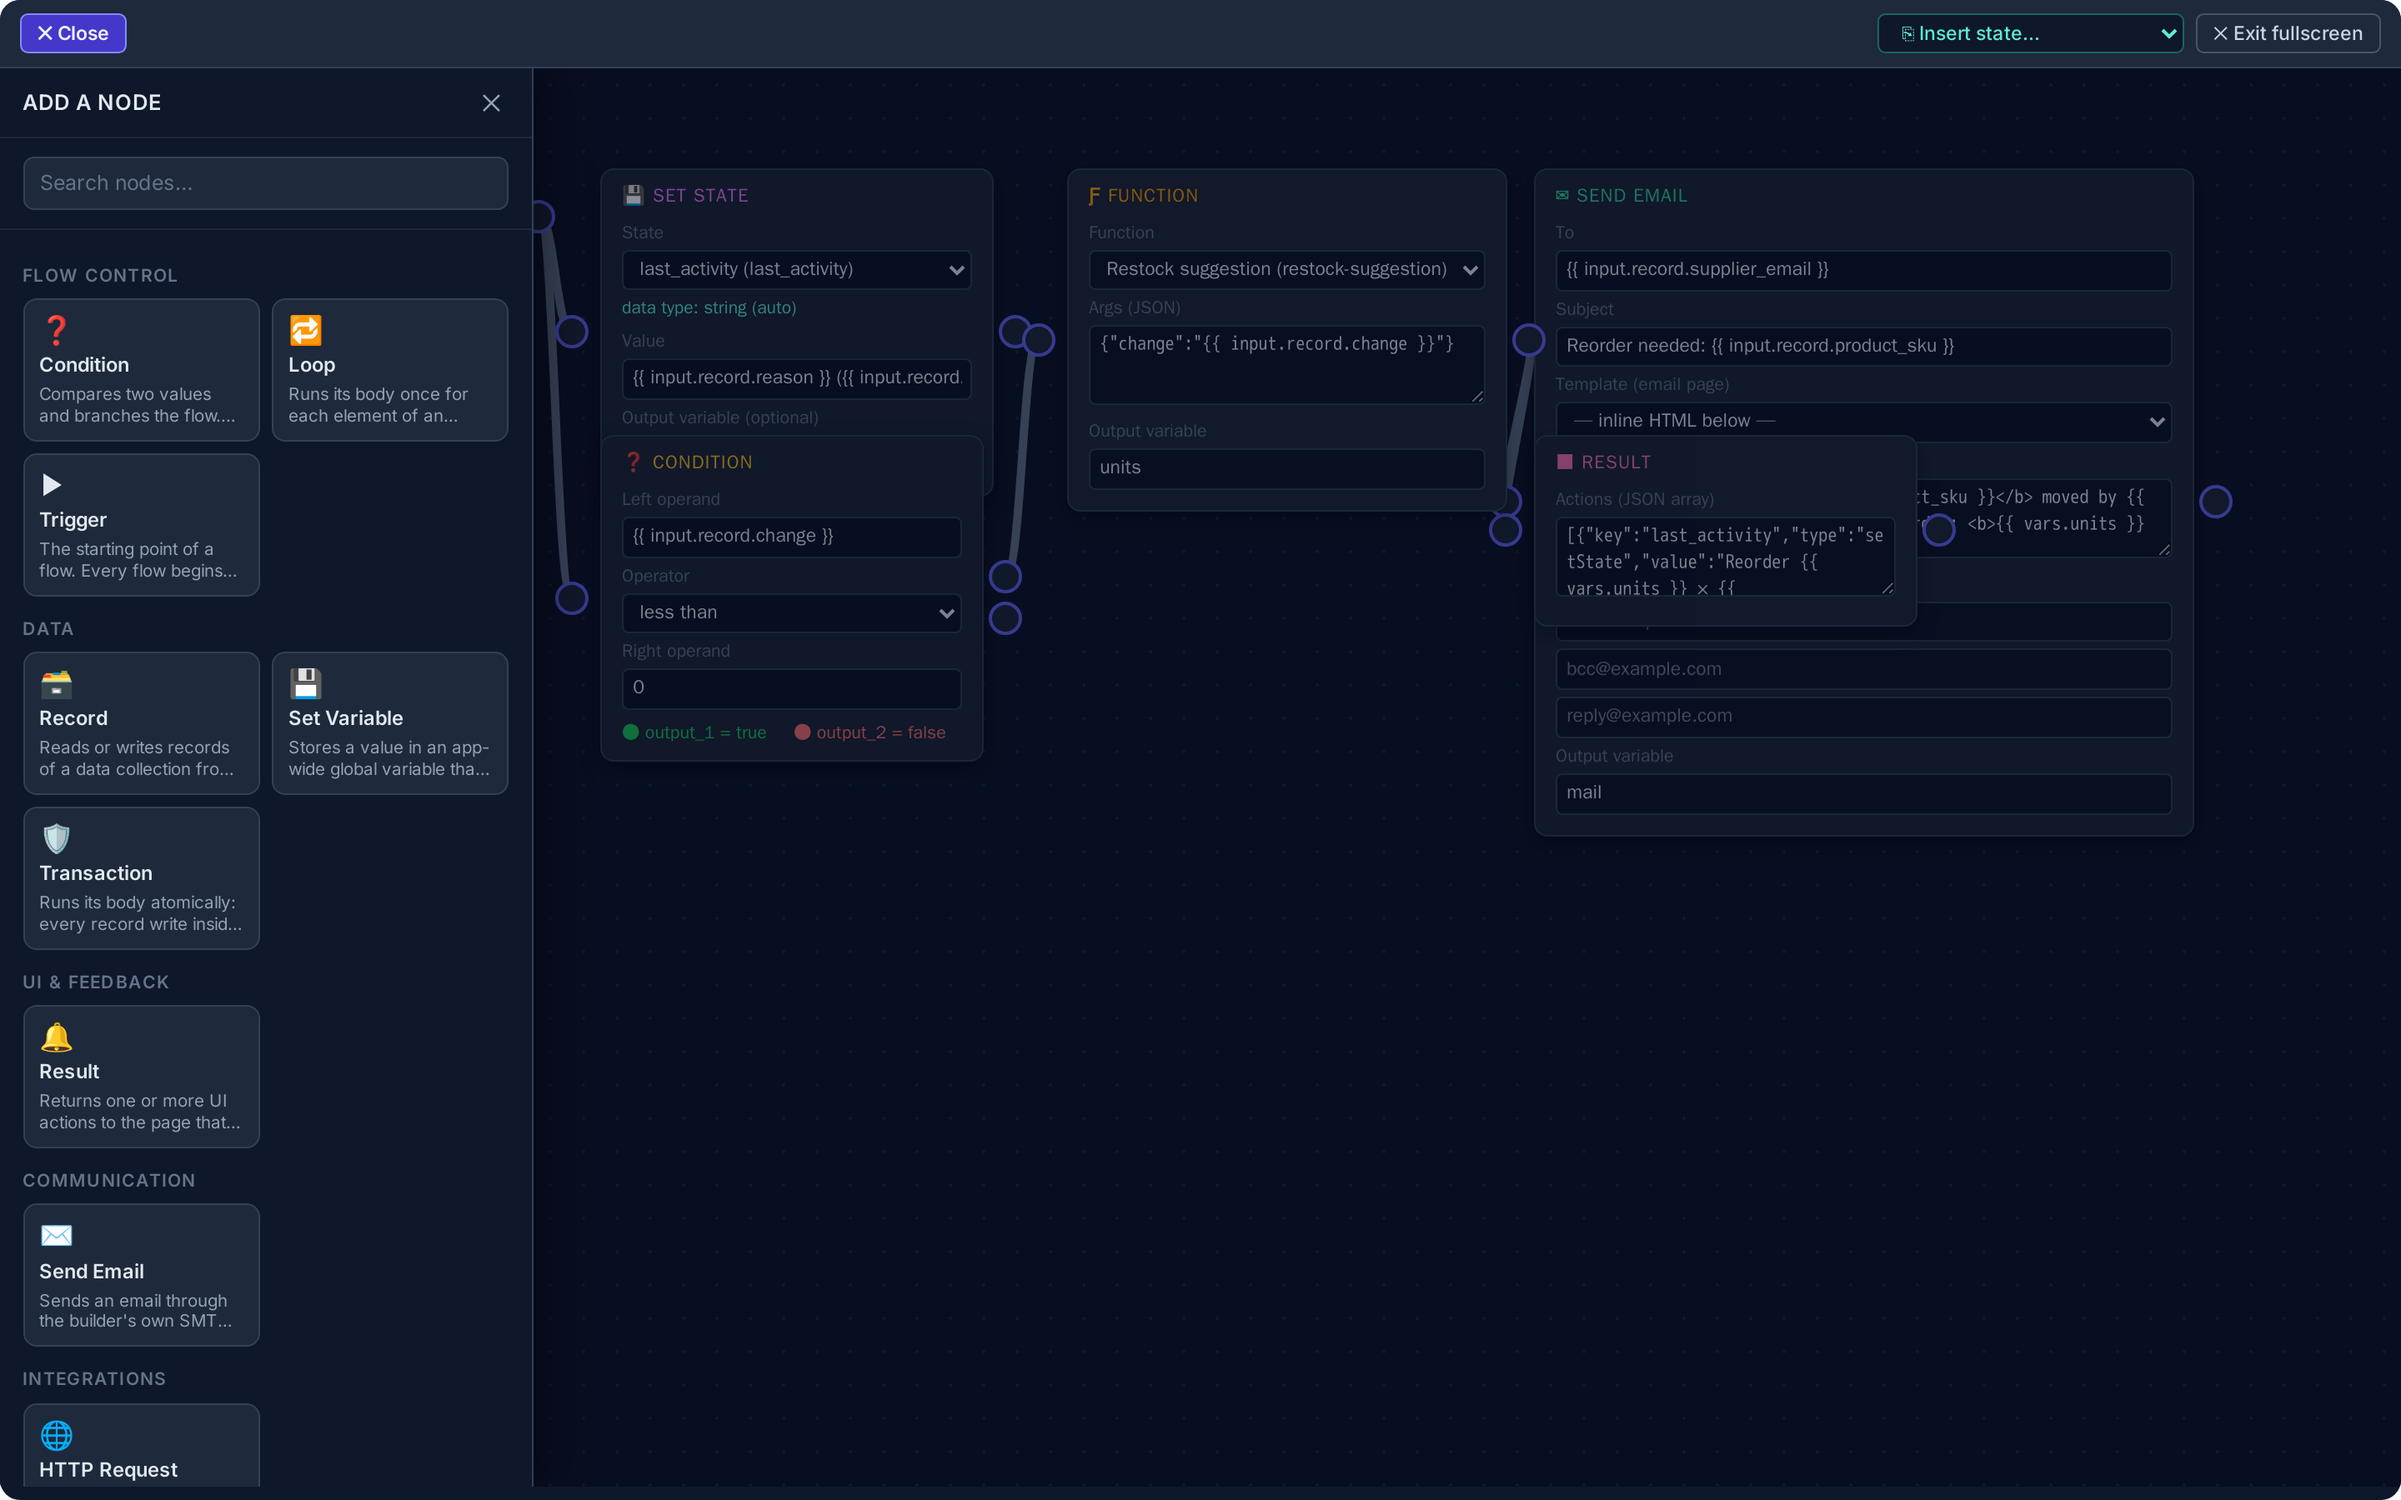
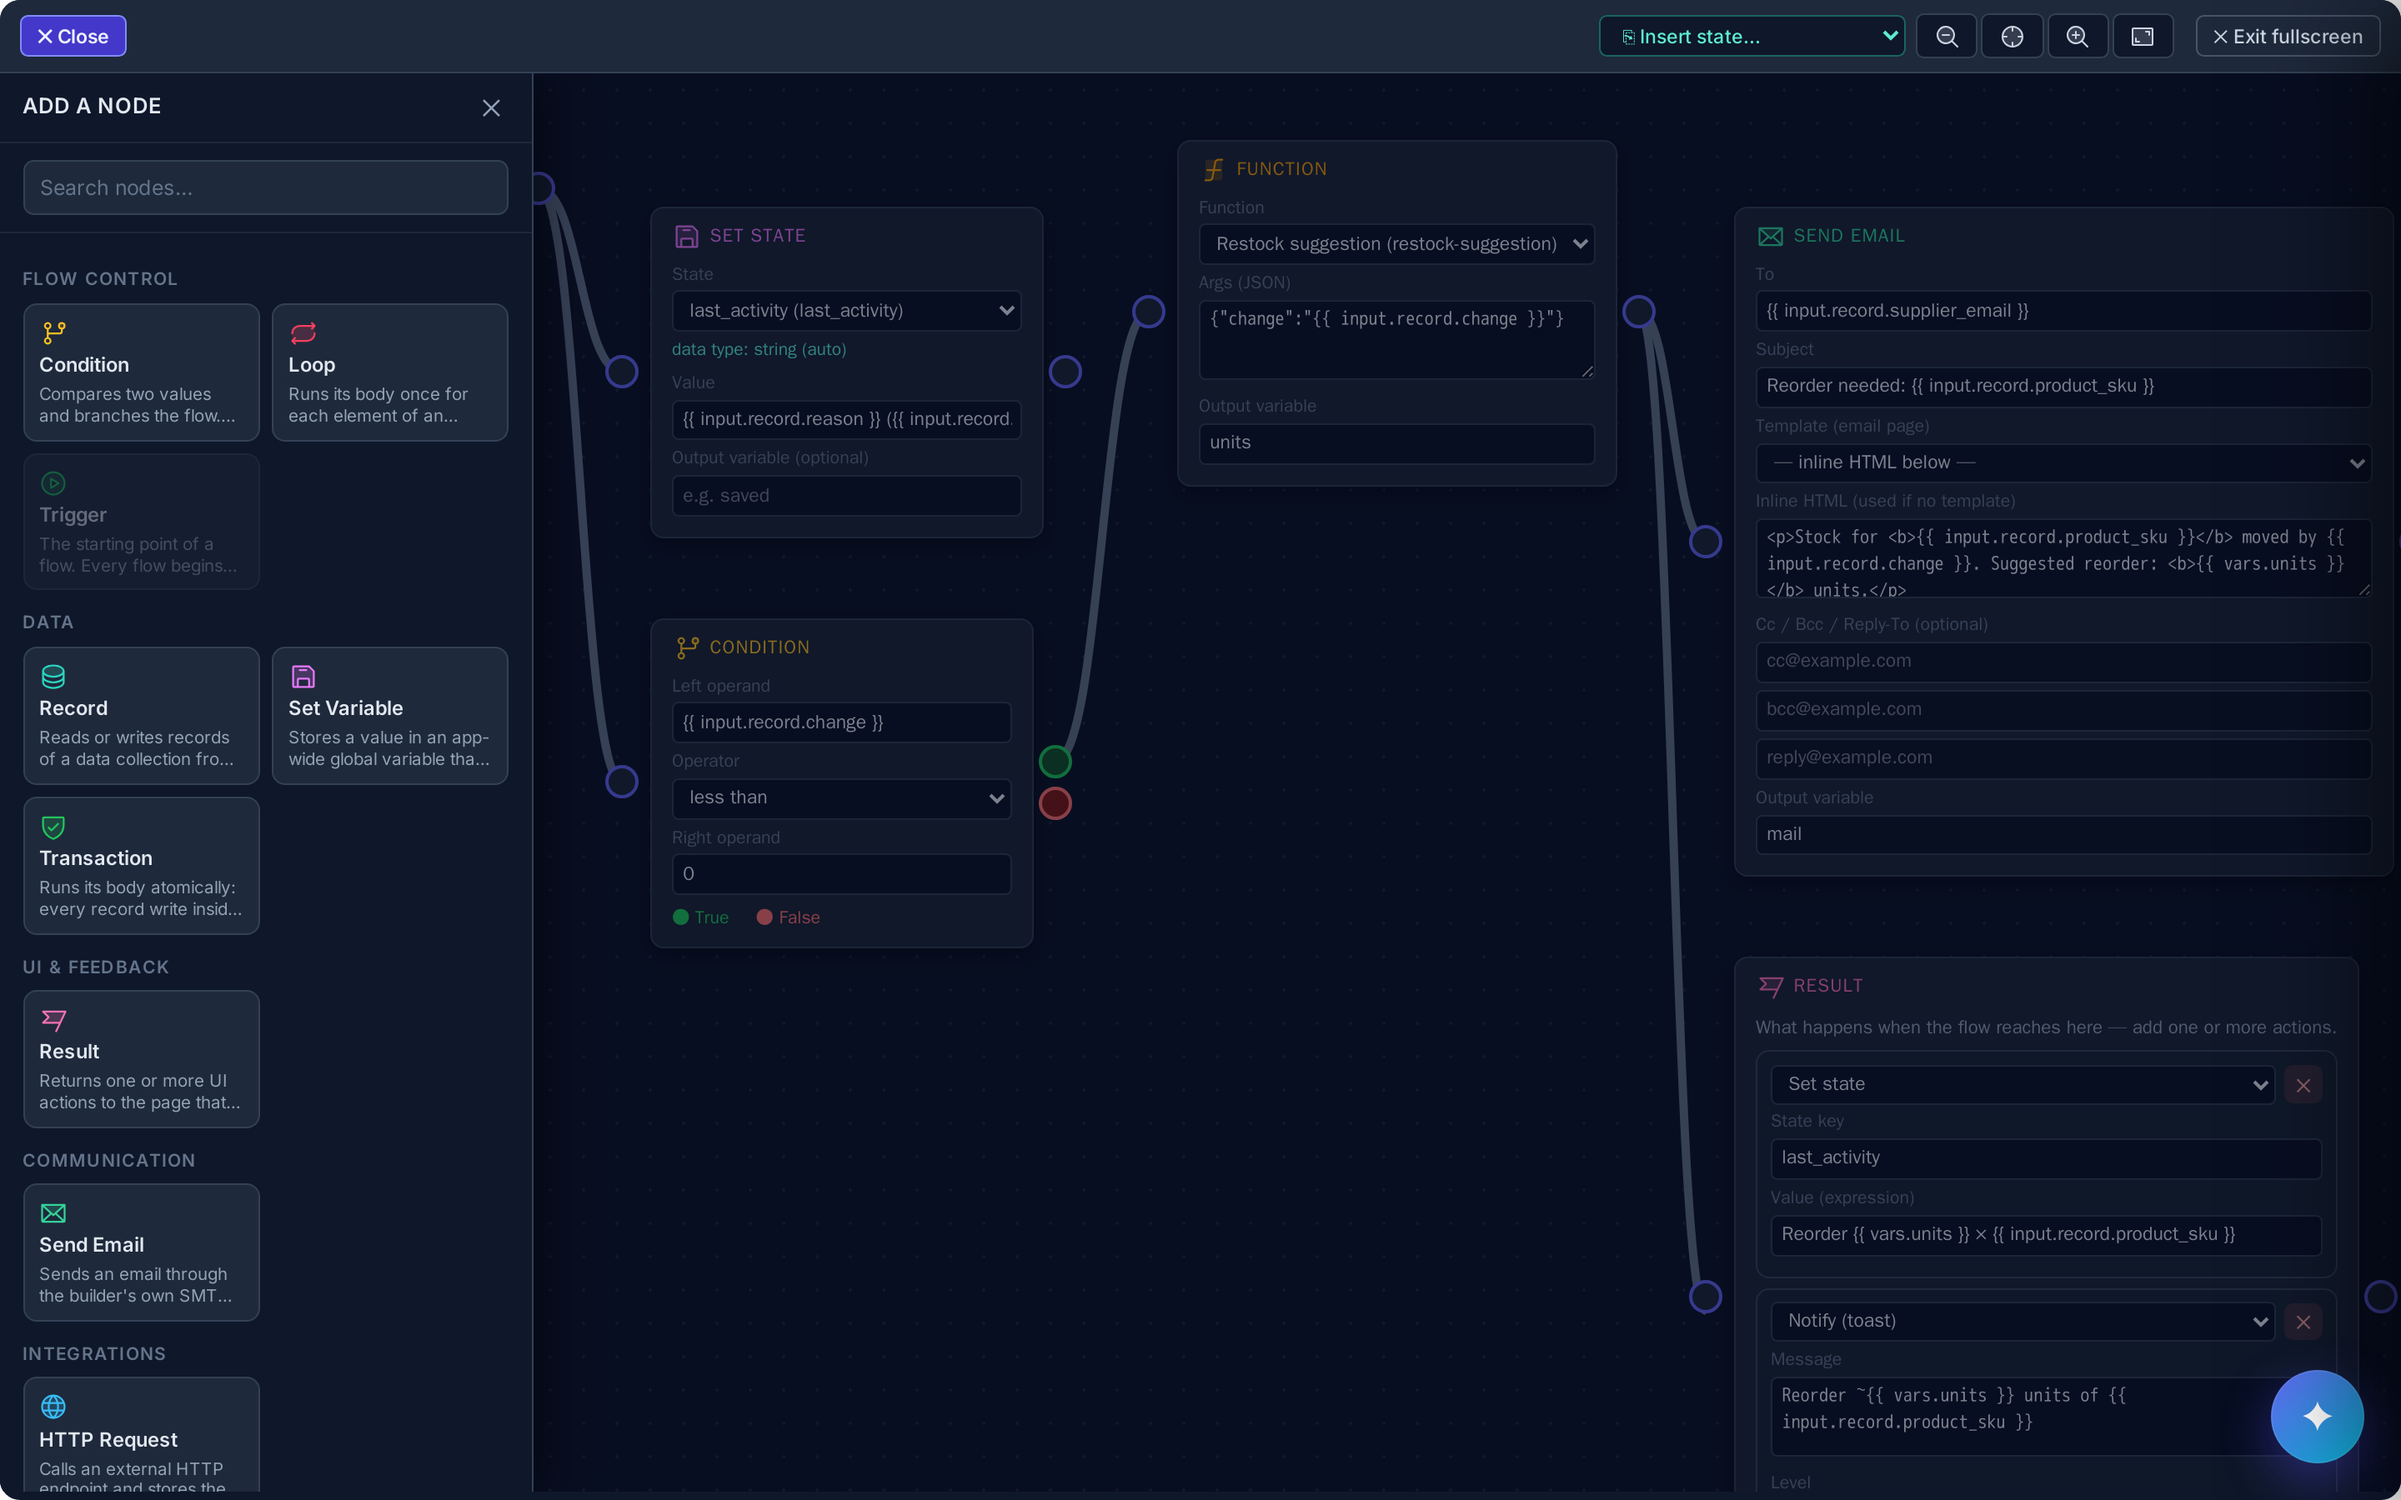
docs: refresh screenshots + document the interactive-page (custom_js) pattern
- Renew all README screenshots from the live demo apps (marketing site, the now-
  functional Inventory app with data/KPIs/CRUD, the visual builder + colour-coded
  block palette, the flow canvas with colour-coded nodes + true/false ports, a real
  AI Build Plan, and the end-user login). Expand the "See it" grid to 6 shots.
- README: note colour-coded flow nodes + green/red branch ports.
- docs/pages-and-components: correct the custom_js load order (now BEFORE the
  deferred Alpine) and add a "sanitizer-safe pattern" section — define component
  factories in custom_js, use init() not x-init, and data-act delegation not
  @click. Make the sanitizer note accurate (page html is ALWAYS sanitized).
- CHANGELOG: colour-coded nodes/blocks, true/false ports, and the custom_js-before-
  Alpine fix + inventory demo rework.

diff --git a/docs/pages-and-components.md b/docs/pages-and-components.md
@@ -58,7 +58,7 @@ Section blocks wrap their markup in `<section data-pb-block="{key}">` with stabl
 
 ### Components (category `Components`)
 
-`card`, `banner`, `modal`, `drawer`, `tabs`, `accordion`, `tooltip`, `dropdown_menu`. These are **owner-authored, trusted** interactive blocks — because the author wrote them (not the AI), they may carry *executable* Alpine directives (`x-data`, `@click`, `x-show`, `x-transition`, etc.) for local UI state. Overlay panels use `x-cloak` so they stay hidden in the editor canvas (where Alpine does not run).
+`card`, `banner`, `modal`, `drawer`, `tabs`, `accordion`, `tooltip`, `dropdown_menu`. These ship structured, styled markup with **declarative** local state (`x-data`, `x-show`, `x-cloak`, `x-transition`) — overlay panels use `x-cloak` so they stay hidden in the editor canvas (where Alpine does not run). Because page `html` is sanitized (see below), any **user-triggered** behaviour (open/close, switch tab) must be wired from `custom_js` using the [sanitizer-safe pattern](#writing-interactive-pages-the-sanitizer-safe-pattern) — inline `@click` handlers on the block markup are stripped on save.
 
 ### Forms (category `Forms`)
 
@@ -96,7 +96,39 @@ Route::get('/', [RenderPageController::class, 'home']);
 
 ## Per-page CSS / JS
 
-`custom_css` is injected into the page `<head>`; `custom_js` is injected at the **end** of `<body>`, after the DOM, the flow runtime and Alpine — so it can rely on `window.Alpine` and `$store.app` being present.
+`custom_css` is injected into the page `<head>`. `custom_js` is injected at the end of `<body>` **before** the (deferred) Alpine script — so any component factory it defines is registered before Alpine boots and evaluates the first `x-data`. `custom_css` and `custom_js` are the two **raw, un-sanitized** channels (the owner owns them); everything in `html` is sanitized (see below).
+
+### Writing interactive pages (the sanitizer-safe pattern)
+
+Because `html` is always sanitized, executable behaviour that you'd normally inline in the markup is stripped. Put the behaviour in `custom_js` instead, and follow the same conventions the framework's own components use:
+
+- **Define component factories in `custom_js`**, reference them declaratively in `html`:
+  ```js
+  // custom_js
+  window.inventoryApp = () => ({
+    rows: [], loading: true,
+    init() { this.load(); },          // Alpine calls init() automatically — no x-init needed
+    load() { fetch(this.api).then(r => r.json()).then(d => { this.rows = d.data; }); },
+  });
+  ```
+  ```html
+  <!-- html: x-data references the factory; x-init is not needed (and would be stripped) -->
+  <div x-data="inventoryApp()"> … </div>
+  ```
+- **Need the reactive store at startup?** Register on `alpine:init` (it fires when the deferred Alpine starts, after your `custom_js` has run): `document.addEventListener('alpine:init', () => { window.Alpine.store('app').foo = 1; })`.
+- **Handle clicks without `@click`** (which is stripped): tag buttons with a `data-*` attribute (kept by the sanitizer) and delegate inside `init()`:
+  ```html
+  <button data-act="openCreate">+ Add</button>
+  ```
+  ```js
+  init() {
+    this.$el.addEventListener('click', (e) => {
+      const btn = e.target.closest('[data-act]');
+      if (btn) this[btn.dataset.act]?.();
+    });
+  }
+  ```
+  The bundled Inventory demo (`ai-page-builder:install-demo`) is authored exactly this way — read `src/Demo/InventoryDemo.php` for a full working example.
 
 ## Declarative data binding (Alpine)
 
@@ -109,7 +141,7 @@ The rendered page loads Alpine and registers a global store named `app`, seeded 
 | `x-model="$store.app.search"` | Two-way bind an input |
 | `x-for="item in $store.app.items"` | Repeat over a state array |
 
-> **AI-authored pages are restricted to these declarative directives.** The [`HtmlSanitizer`](ai.md#safety) strips executable directives (`@click`, `x-on:*`, `x-init`, `x-effect`, `x-html`) and `<script>` from AI HTML, but keeps `x-data`, `x-show`, `x-text`, `x-model`, `x-for`, `x-bind:`/`:`, `x-cloak`, `x-transition*` and the `data-pb-*` attributes. Owner-authored Component blocks are trusted and bypass the sanitizer.
+> **Page `html` is always sanitized — it's the XSS surface served verbatim to visitors** — so this applies to hand-authored *and* AI-authored markup alike. The [`HtmlSanitizer`](ai.md#safety) strips executable directives (`@click`, `x-on:*`, `x-init`, `x-effect`, `x-html`) and `<script>` from `html`, but keeps the declarative ones (`x-data`, `x-show`, `x-text`, `x-model`, `x-for`, `x-bind:`/`:`, `x-cloak`, `x-transition*`) and the `data-*` / `data-pb-*` attributes. Executable behaviour belongs in the raw `custom_js` channel — see [the sanitizer-safe pattern above](#writing-interactive-pages-the-sanitizer-safe-pattern).
 
 The current end-user is fetched client-side from `GET /pb-auth/me` and placed at `$store.app.$user` — used to drive component visibility (see below).
 

diff --git a/README.md b/README.md
@@ -39,7 +39,7 @@ Nothing leaves your server. There's no SaaS, no per-seat pricing, no lock-in. It
 |---|---|
 | 🧩 **Pages & components** | A GrapesJS visual builder + a real UI kit (cards, modals, drawers, tabs, forms, **data tables**), per-page CSS/JS, SEO, a cached public render route, and a pickable **home page**. **Management pages** give you an Add form + live data table + per-row Edit/Delete in one pattern. Image fields upload on select via a gated `/pb-upload` endpoint. |
 | 🗄 **Collections (data)** | Define your own models → **real database tables** (`pb_<key>`, Directus-style) with typed fields, schema sync, an instant **REST API** (filter/sort/search/paginate/`expand=*`) and a records browser. `?expand=*` resolves belongs-to relations so lists show related record names instead of raw ids. Or map an **existing external table** as a read-through virtual collection — same API/blocks/flows, never schema-managed. |
-| ⚡ **Flows (the brain)** | An n8n-style visual canvas. Transaction and Loop bodies are edited as an ordered, sortable **step list**. A **`call_flow`** node runs a saved flow as a sub-step, sharing context. One Trigger per flow (START-badged), enforced by the editor. Zoom controls + non-overlapping auto-layout. Nodes: CRUD, HTTP, AI invoke, functions, conditions, set-state, **send email**, page actions — with a low-code **Result** type-picker. |
+| ⚡ **Flows (the brain)** | An n8n-style visual canvas. Transaction and Loop bodies are edited as an ordered, sortable **step list**. A **`call_flow`** node runs a saved flow as a sub-step, sharing context. One Trigger per flow (START-badged), enforced by the editor. **Colour-coded node types** (with a matching, colour-coded node drawer), **green / red true / false branch ports** on conditions, zoom controls + non-overlapping auto-layout. Nodes: CRUD, HTTP, AI invoke, functions, conditions, set-state, **send email**, page actions — with a low-code **Result** type-picker. |
 | ƒ **Functions & States** | Reusable logic (expression / callable / PHP) and a persistent, app-wide **reactive store** that components bind to and flows update live. Factor a one-liner into a Function; a multi-step process into a reusable Flow via `call_flow`. |
 | 🔐 **Auth & permissions** | The built app's **own** users, roles and permissions — sign in once, every gated page just works. Password / **SSO** (Google · Microsoft · GitHub, org-restricted) / **2FA** (email-OTP + authenticator), self-registration + email **invites**, per-page gating, opt-in CRUD rules, **row-/field-level security** and record ownership. Optional: a public site ignores it entirely. |
 | ✉ **Email** | An isolated SMTP transport (configured in Settings) + a `send_email` flow node that uses any page as an interpolated **email template**. |
@@ -49,15 +49,19 @@ Nothing leaves your server. There's no SaaS, no per-seat pricing, no lock-in. It
 
 ## See it
 
-Everything below was **built with the package itself** — run `php artisan ai-page-builder:install-demo` to get these two apps.
+Everything below was **built with the package itself** — run `php artisan ai-page-builder:install-demo` to get the marketing site and the role-gated Inventory app, then sign in and explore.
 
-| A designed marketing site | A role-gated Inventory app |
+| A designed marketing site | A role-gated Inventory app — live data, KPIs, search & CRUD |
 |---|---|
 | ![Marketing site](art/screenshots/marketing-site.png) | ![Inventory dashboard](art/screenshots/inventory.png) |
 
-| Chat to build & refine (Ask / Plan / Build) | An automation flow (fan-out + branches) |
+| The visual builder — drag typed, colour-coded blocks | The flow canvas — colour-coded nodes + true / false branches |
 |---|---|
-| ![AI chat](art/screenshots/ai-chat.png) | ![Flow editor](art/screenshots/flow.png) |
+| ![Visual page builder](art/screenshots/editor.png) | ![Flow editor](art/screenshots/flow.png) |
+
+| Describe it; AI returns a reviewable Build Plan | The app's own sign-in (password · SSO · 2FA) |
+|---|---|
+| ![AI chat build plan](art/screenshots/ai-chat.png) | ![End-user login](art/screenshots/login.png) |
 
 ---
 

diff --git a/CHANGELOG.md b/CHANGELOG.md
@@ -13,7 +13,9 @@ and this project adheres to [Semantic Versioning](https://semver.org/spec/v2.0.0
 - New **`call_flow`** node: runs another saved flow's definition as a sub-step, sharing the caller's `vars`/`input` context; cycle-guarded (direct and transitive cycles blocked); counts against the shared step budget.
 - **Single entry point** enforced: every flow has exactly one Trigger node (badged START); the editor blocks adding a second.
 - **Non-overlapping auto-layout** for AI-generated and programmatic flows.
-- **Zoom controls** in the canvas toolbar: zoom out / reset / zoom in / fit-to-screen.
+- **Zoom controls** in the canvas toolbar: zoom out / reset / zoom in / fit-to-screen (now rendered as Phosphor duotone icons).
+- **Colour-coded flow nodes**: each node type has its own coloured Phosphor duotone icon on the node card, in the "+ Add node" drawer, and in the transaction/loop step picker.
+- Condition/Transaction outputs are labelled **True / False** (was `output_1 = true`) with **green / red colour-coded branch ports** on the canvas.
 - **Result** node now uses a low-code actions builder: a type dropdown (Notify / Alert / Modal / Redirect / Set state / Set HTML / Set text / Add class / Remove class / Log out) with conditional field visibility per type.
 - Editing an AI-generated flow round-trips losslessly through the step-list editor.
 
@@ -29,6 +31,12 @@ and this project adheres to [Semantic Versioning](https://semver.org/spec/v2.0.0
 - `data_table` shell auto-renders columns from fetched data (relation names resolved); KPI/chart widgets render from a configured-but-empty wrapper.
 - **Image fields** — file input that uploads on select via the `/pb-upload` endpoint and submits the returned URL.
 - **`POST /pb-upload`** public image upload: authenticated by default (anonymous opt-in via config), image-only (jpeg/jpg/png/gif/webp), size-capped, rate-limited, safe filenames, returns `{url}`.
+- **Colour-coded block palette**: every block ships a coloured Phosphor duotone icon (per category) in the GrapesJS block manager.
+
+### Fixed
+
+- **Per-page `custom_js` now loads before Alpine** (Alpine is deferred). Previously custom JS was emitted after Alpine had already auto-started, so a component factory defined there (`window.myApp = () => ({…})` used in `x-data="myApp()"`) did not exist when Alpine evaluated the first `x-data` — the page rendered inert (empty tables, dead buttons). Regression-tested.
+- **Inventory demo** (`ai-page-builder:install-demo`) authored within the HTML sanitizer's model: component defined in `custom_js`, `init()` in place of `x-init`, and a `data-act` delegated click handler in place of `@click` — so it loads its 8 products, computes KPIs, filters/searches and opens the add-product modal.
 
 ### Configuration
 
